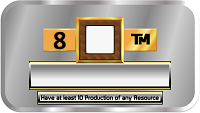
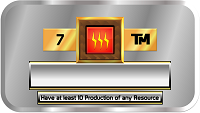
Update Specialist and Mayor

Changed region(s): [[0.42, 0.2124, 0.57, 0.4779], [0.21, 0.2655, 0.39, 0.4513]]

diff --git a/src/MilestoneAwardSelector.ts b/src/MilestoneAwardSelector.ts
@@ -113,6 +113,7 @@ export namespace MilestoneAwardSelector {
       bind(Gardener, Landlord, 6);
       bind(Mayor, Landlord, 6);
       bind(Mayor, Cultivator, 6);
+      bind(Specialist, Thermalist, 6);
       bind(Gardener, EstateDealer, 5);
       bind(Builder, Magnate, 5);
       bind(Tycoon, Magnate, 5);
@@ -121,7 +122,6 @@ export namespace MilestoneAwardSelector {
       bind(Hoverlord, Venuphile, 5);
       bind(DesertSettler, EstateDealer, 5);
       bind(Builder, Tycoon, 4);
-      bind(Specialist, Energizer, 4);
       bind(Mayor, PolarExplorer, 4);
       bind(Mayor, DesertSettler, 4);
       bind(Mayor, EstateDealer, 4);
@@ -129,6 +129,7 @@ export namespace MilestoneAwardSelector {
       bind(Gardener, DesertSettler, 4);
       bind(Ecologist, Excentric, 4);
       bind(PolarExplorer, Landlord, 4);
+      bind(Specialist, Energizer, 3);
       bind(Mayor, Gardener, 3);
       bind(Tycoon, Excentric, 3);
       bind(PolarExplorer, Cultivator, 3);
@@ -137,7 +138,6 @@ export namespace MilestoneAwardSelector {
       bind(Celebrity, SpaceBaron, 3);
       bind(Benefactor, Cultivator, 3);
       bind(Gardener, Benefactor, 2);
-      bind(Specialist, Banker, 2);
       bind(Ecologist, Tycoon, 2);
       bind(Ecologist, Diversifier, 2);
       bind(Tycoon, Scientist, 2);
@@ -154,9 +154,6 @@ export namespace MilestoneAwardSelector {
       bind(Builder, Industrialist, 1);
       bind(Planner, Scientist, 1);
       bind(Generalist, Miner, 1);
-      bind(Specialist, Thermalist, 1);
-      bind(Specialist, Miner, 1);
-      bind(Specialist, Industrialist, 1);
       bind(Ecologist, Cultivator, 1);
       bind(Ecologist, Magnate, 1);
       bind(Tycoon, Diversifier, 1);

diff --git a/src/milestones/Specialist.ts b/src/milestones/Specialist.ts
@@ -3,16 +3,12 @@ import {Player} from '../Player';
 import {Resources} from '../Resources';
 
 export class Specialist implements IMilestone {
-    public name: string = 'Specialist';
-    public description: string = 'Requires that you have at least 8 in production of resource other than MC'
+    public name: string = 'Firestarter';
+    public description: string = 'Requires that you have 7 heat production'
     public getScore(player: Player): number {
-      return Math.max(player.getProduction(Resources.STEEL),
-        player.getProduction(Resources.TITANIUM),
-        player.getProduction(Resources.PLANTS),
-        player.getProduction(Resources.ENERGY),
-        player.getProduction(Resources.HEAT));
+      return player.getProduction(Resources.HEAT);
     }
     public canClaim(player: Player): boolean {
-      return this.getScore(player) > 7;
+      return this.getScore(player) > 6;
     }
 }

diff --git a/src/milestones/Mayor.ts b/src/milestones/Mayor.ts
@@ -2,12 +2,12 @@ import {IMilestone} from './IMilestone';
 import {Player} from '../Player';
 
 export class Mayor implements IMilestone {
-    public name: string = 'Mayor';
-    public description: string = 'Owning at least 3 city tiles'
+    public name: string = 'Grounded';
+    public description: string = 'Having at least 4 total owned city tiles and points from city tiles'
     public getScore(player: Player): number {
-      return player.getCitiesCount();
+      return player.getVictoryPoints().city + player.getCitiesCount();
     }
     public canClaim(player: Player): boolean {
-      return this.getScore(player) >= 3;
+      return this.getScore(player) >= 4;
     }
 }
